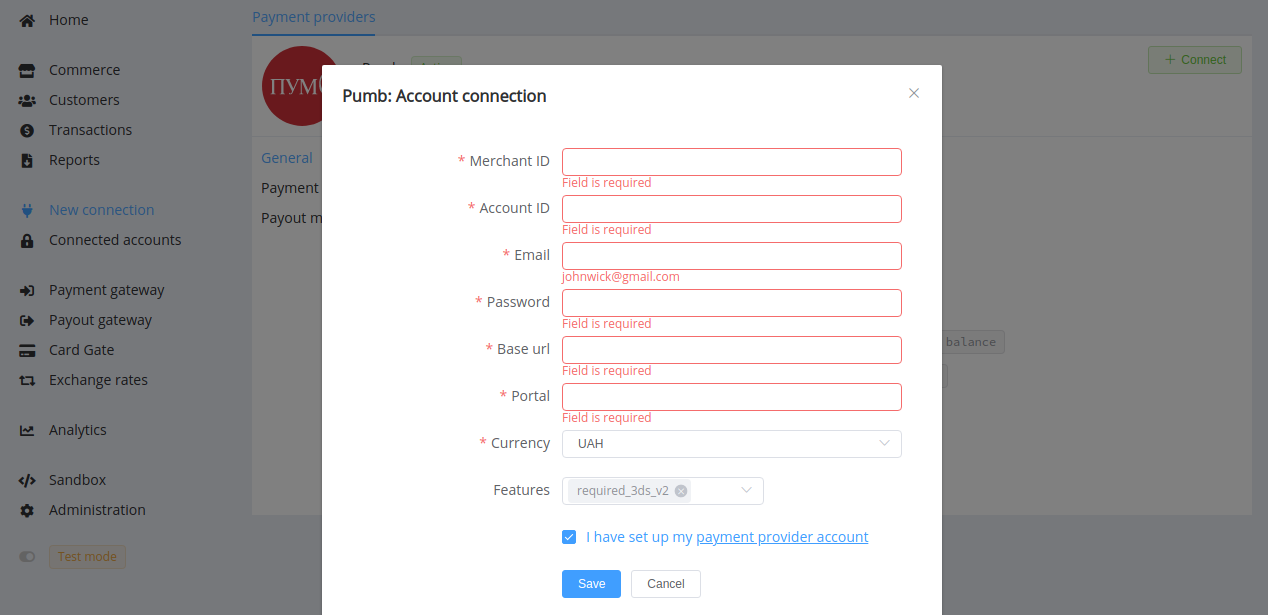
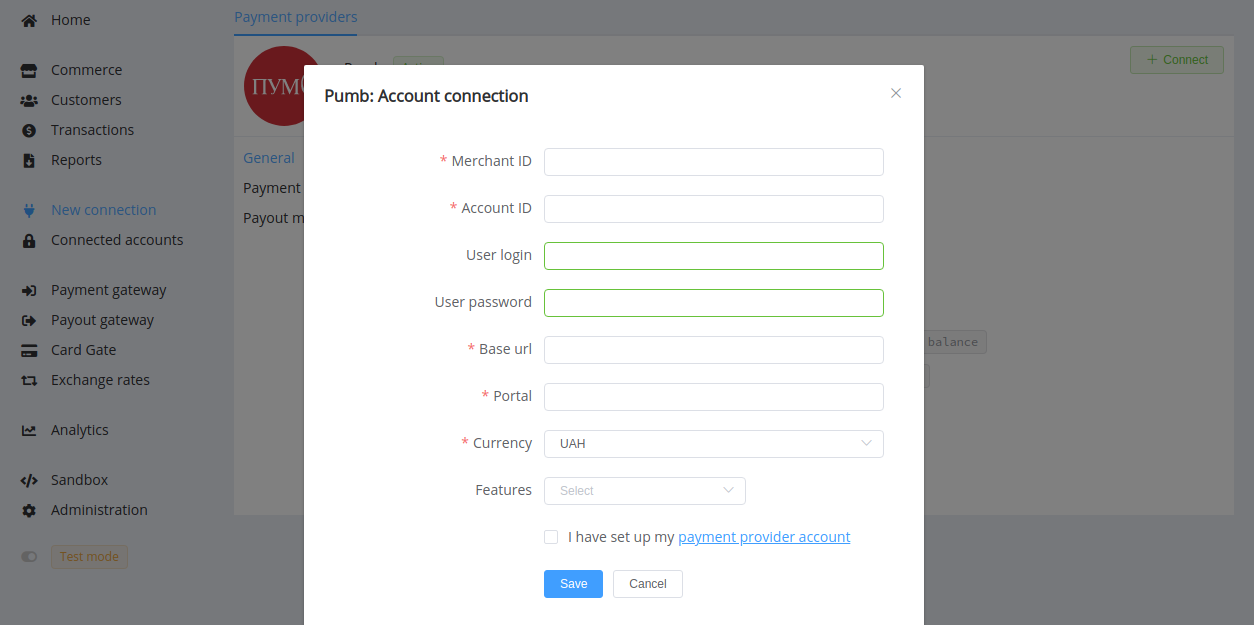
update PUMB, add AliKassa & Square

diff --git a/docs/connectors/index.md b/docs/connectors/index.md
@@ -28,6 +28,7 @@ Click on the name of the desired connector and follow the link to the step-by-st
 | <img src="https://static.openfintech.io/payment_providers/adgroup/logo.svg?w=70" width="70px">  | [ADgroup](adgroup/)  | H2H connection, Payments, Payouts, Account balances   | EUR, RUB, USD |
 | <img src="https://static.openfintech.io/payment_providers/advcash/logo.svg?w=100" width="100px"> | [AdvCash](advcash/) | Payments, Payouts, Account balances | [according to the provider account settings] |
 | <img src="https://static.openfintech.io/payment_providers/alfabank/logo.svg?w=90" width="90px">  | [Alfa Bank](alfabank/) | H2H connection, Payouts, Account balances  | UAH |
+| <img src="https://static.openfintech.io/payment_providers/alikassa/logo.svg?w=70" width="100px"> | [AliKassa](alikassa/) | Payouts, Account balances | [according to the provider account settings] |
 | <img src="https://static.openfintech.io/payment_providers/anycash/logo.svg?w=70" width="100px"> | [any.cash](anycash/) | Payments, Payouts, Account balances | [according to the provider account settings] |
 | <img src="https://static.openfintech.io/payment_providers/anymoney/logo.svg?w=80" width="80px"> | [Any.Money](anymoney/) | Payments, Payouts, Account balances | [according to the provider account settings] |
 | <img src="https://static.openfintech.io/payment_providers/axcessmerchantservices/logo.png?w=60" width="60px"> | [Axcess Merchant Services](axcessmerchantservices/) | H2H connection  | EUR, RUB, UAH, USD |
@@ -101,6 +102,7 @@ Click on the name of the desired connector and follow the link to the step-by-st
 | <img src="https://static.openfintech.io/payment_providers/platio/logo.svg?w=70" width="70px"> | [Platio](platio/) | H2H connection, Payouts, Account balances | RUB |
 | <img src="https://static.openfintech.io/payment_providers/portmone/logo.svg?w=70" width="70px">  | [Portmone.com](portmone/) | H2H connection | UAH |
 | <img src="https://static.openfintech.io/payment_providers/procard/logo.png?w=70" width="70px"> | [Procard](procard/)  | H2H connection | UAH |
+| <img src="https://static.openfintech.io/payment_providers/pumb/logo.svg?w=35" width="35px"> | [PUMB (FUIB)](pumb/)  | H2H connection | UAH |
 | <img src="https://static.openfintech.io/payment_providers/raiffeisenbank/logo.svg?w=100" width="100px"> | [Raiffeisen Bank](raiffeisenbank/) | H2H connection, Account balances | UAH |
 | <img src="https://static.openfintech.io/payment_providers/rapyd/logo.svg?w=70" width="70px"> | [Rapyd.net](rapyd/) | Payouts, Account balances  | [according to the provider account settings] |
 | <img src="https://static.openfintech.io/payment_providers/rbkmoney/logo.png?w=70" width="70px">  | [RBK Money](rbkmoney/) | H2H connection, Payouts, Account balances   | EUR, RUB, USD |
@@ -110,6 +112,7 @@ Click on the name of the desired connector and follow the link to the step-by-st
 | <img src="https://static.openfintech.io/payment_providers/satchelpay/logo.svg?w=90" width="90px"> | [SatchelPay](satchelpay/)  | Payouts, Account balances | [according to the provider account settings] |
 | <img src="https://static.openfintech.io/payment_providers/selcom/logo.png?w=70" width="70px">  | [Selcom](selcom/) | Payments, Payouts, Account balances | [according to the provider account settings] |
 | <img src="https://static.openfintech.io/payment_providers/skrill/logo.svg?w=50" width="50px"> | [Skrill](skrill/) | Payments, Payouts, Account balances | AUD, BGN, CHF, CZK, DKK, EUR, GBP, HRK, HUF, MYR, NOK, PLN, RON, SEK, THB, USD |
+| <img src="https://static.openfintech.io/payment_providers/square/logo.svg?w=70" width="70px">  | [Square](square/) | Payments | [according to the provider account settings] |
 | <img src="https://static.openfintech.io/payment_providers/stripe/logo.svg?w=70" width="70px"> | [Stripe](stripe/)  | H2H connection | AUD, CAD, EUR, GBP, USD |
 | <img src="https://static.openfintech.io/payment_providers/tkbpay/logo.svg?w=70" width="70px"> | [TKB Pay](tkbpay/) | H2H connection, Payouts, Account balances | RUB |
 | <img src="https://static.openfintech.io/payment_providers/tome/logo.svg?w=70" width="70px"> | [tome](tome/) | H2H connection, Payouts, Account balances | BYN, EUR, KZT, RUB, UAH, USD |

diff --git a/mindmap.mm.md b/mindmap.mm.md
@@ -1,0 +1,136 @@
+# Docs.Paycore.io
+
+- Getting Started
+  - ✔ [Introduction](https://docs.paycore.io/)
+  - ✏ [Ecosystem Overview](https://docs.paycore.io/getting-started/platform-overview/)
+  - Onboarding
+  - Use Cases
+  - Go Live Checklist
+  - ⚖ FAQ
+  - Glossary
+
+- Integration
+  - Overview
+    - Versioning
+  - Authentication
+  - Account Data
+    - Exchange Rates
+    - Balances
+  - Accept Payments
+    - Base Integration
+    - Host-to-host payments
+    - Tokenisation
+    - PaymentWidget.js
+  - Make payouts
+    - Base Integration
+    - Using of Tokens
+  - Callbacks
+    - Idempotent responses
+  - Testing
+  - Reconciliations
+  - Handling Errors
+  - Public IPs
+
+- Products
+  - Account & Dashboard settings
+    - User Account
+      - Basic settings
+      - Security & session control
+      - Audit log
+    - Organisation Account
+      - Basic settings
+      - Team work settings
+      - Security
+        - API Keys
+        - Callbacks settings
+    - Sandbox & Test mode
+    - Global Search
+  - Merchant (Cashiers)
+    - Basic Concepts
+    - Merchant Account
+      - Options
+      - Schemes
+    - Provider solutions
+      - Ledger overview
+      - Currency accounts & balances
+      - Deposits, withdrawals, transfers
+      - White-label Merchant Portal
+        - [MP guides & settings]
+    - Customers
+    - Exchange rates
+  - Accept payments
+    - Payment flow
+    - Payment methods & options
+    - Start accept payments
+    - Card vault & tokenisation
+    - Reconciliation
+      - Manual
+        - With dashboard
+        - Pull statement
+        - Bulk callbacks
+      - Automated
+        - API requests
+        - Callbacks
+    - Optimising payments
+      - Routing
+        - Choose routing strategy
+        - P2P routing
+      - Cascading
+      - Auto-retry
+    - Recurring payments
+    - Refunds
+    - Type of integrations
+      - Checkout
+        - Overview
+        - Quickstart
+        - Integration
+        - Customisation
+        - Sandbox
+        - Samples
+      - Build your own payment page
+  - Make payouts
+    - Payout flow
+    - Payout methods & options
+    - Send a single item payout
+    - Reconciliation
+      - Manual
+        - With dashboard
+        - Pull statement
+        - Bulk callbacks
+      - Automated
+        - API requests
+        - Callbacks
+    - Optimising payouts
+      - Routing
+        - Choose routing strategy
+        - P2P routing
+    - Batch payouts
+      - Use Cases
+      - Create batch items
+  - Analytics
+    - Analytic Portal
+      - Overview
+      - Getting Started
+      - Managing Queries
+      - Managing Dashboards
+      - Managing Alerts
+      - Visualizations
+      - FAQ
+    - Reports
+    - Exports
+
+- Connection Hub
+  - Type of Connections
+    - Merchant Account
+    - Provider Account
+    - H2H Merchant Account
+  - List of all available connectors
+    - [Connectors guides]
+
+- Changelog
+  - Release notes 2021
+  - Archive
+    - 2020
+    - 2019
+  - API Changelog
+  - Docs updates

diff --git a/docs/connectors/square/index.md b/docs/connectors/square/index.md
@@ -1,0 +1,64 @@
+<img src="https://static.openfintech.io/payment_providers/square/logo.svg?w=400" width="400px" >
+
+# Square
+
+!!! quote ""
+    The future of business is yours to shape.
+
+**Website**: [Square](https://squareup.com/us/en)
+
+**Login**: [Square](https://squareup.com/login)
+
+Follow the guidance for setting up a connection with Square payment service provider.
+
+## Set up account
+
+### Step 1: Sign up for the Square account
+
+Sign up to the [Square system](https://squareup.com/login) and create an account. Then at your [online Square Dashboard](https://squareup.com/dashboard/), go to the Seller portal and provide details about your store.
+
+Verify your identity to be allowed to accept payments at your Point of Sale. Link your bank accounts for payments.
+
+!!! warning
+    You must activate your Square account for payments by visiting [squareup.com/activate](https://squareup.com/activate) before you can process card payments in production.
+
+Set up your production *Location* in the *Seller Dashboard*: *Account & Settings* --> *Business* --> *Locations*.
+
+![Locations](images/account-n-settings.png)
+
+### Step 2: Get credentials
+
+Note that Square uses different credentials for testing and production. Find them at the *Developer Dashboard*.
+
+* Access Token at *[Application]* --> *Credentials*
+
+    ![Credentials](images/access-token.png)
+
+* Location ID at *[Application]* --> *Locations* (you can also control them in the *Seller Dashboard* settings).
+
+    ![Locations](images/location-id.png)
+
+To receive Callbacks (Webhooks) from Square, enable them at *[Application]* --> *Webhooks* and add `https://psp-ext.paycore.io/square/callback` as Notification URL.
+
+![Notification](images/webhooks.png)
+
+## Connect Account
+
+### Step 1. Connect account at the {{custom.company_name}} Dashboard
+
+Press **Connect** at [*Square Provider Overview*]({{custom.dashboard_base_url}}connect-directory/payment-providers/square/general) page in *'New connection'* and choose **Provider account** option to open Connection form.
+
+![Connect](images/provider-account.png)
+
+Enter credentials:
+
+* Access Token
+* Location
+
+Also, toggle Test Mode for test connection and, in that case, use test credentials.
+
+!!! success
+    You have connected **Square** account.
+
+!!! question "Still looking for help connecting your Square account?"
+    <!--email_off-->[Please contact our support team!](mailto:{{custom.support_email}})<!--/email_off-->

diff --git a/docs/connectors/alikassa/index.md b/docs/connectors/alikassa/index.md
@@ -1,0 +1,66 @@
+<img src="https://static.openfintech.io/payment_providers/alikassa/logo.svg?w=400" width="400px" >
+
+# AliKassa
+
+**Website**: [AliKassa.com](https://alikassa.com/)
+
+Follow the guidance for setting up a connection with the AliKassa payment service provider.
+
+## Set up account
+
+### Step 1: Sign up for the AliKassa account
+
+Send a request on the [website](WEBSITE), verify your account and gain access.
+
+### Step 2: Get credentials
+
+In the account settings, find:
+
+* Provider UUID
+* Private Key
+
+### Step 3: Set Callback URL in the account integration settings
+
+Add `https://psp-ext.paycore.io/alikassa/callback` as the notification URL.
+
+!!! important
+    Be sure to check with the manager if you require to provide a white list of IPs, and if so, specify IP addresses from the [{{custom.company_name}} list](/integration/ips/).
+
+## Connect Provider account
+
+### Step 1. Connect account at the {{custom.company_name}} Dashboard
+
+Press **Connect** at [*AliKassa Provider Overview*]({{custom.dashboard_base_url}}connect-directory/payment-providers/alikassa/general) page in *'New connection'* and choose **Provider account** option to open Connection form.
+
+![Connect](images/provider-account.png)
+
+Enter credentials:
+
+* Provider UUID
+* Private Key
+
+!!! success
+    You have connected **AliKassa** account.
+
+<!--
+## Connect H2H Merchant Account
+
+### Step 1. Connect H2H account at the {{custom.company_name}} Dashboard
+
+Press **Connect** at [*AliKassa Provider Overview*]({{custom.dashboard_base_url}}connect-directory/payment-providers/alikassa/general) page in *'New connection'* and choose **H2H Merchant account** option to open Connection form.
+
+![Connect](images/h2h-merchant-account.png)
+
+Enter credentials:
+
+[//]: # (Choose Test Mode for test connection with AliKassa.)
+
+Choose Currencies and Features. You can set these parameters according to available currencies and features for your AliKassa account, but it is necessary to check details of the connection with your {{custom.company_name}} account manager.
+
+!!! success
+    You have connected **AliKassa** H2H merchant account!
+
+-->
+
+!!! question "Still looking for help connecting your AliKassa account?"
+    <!--email_off-->[Please contact our support team!](mailto:{{custom.support_email}})<!--/email_off-->

diff --git a/docs/connectors/pumb/index.md b/docs/connectors/pumb/index.md
@@ -6,7 +6,7 @@
 
 Follow the guidance for setting up a connection with PUMB as a payment service provider.
 
-## Set Up Account
+## Set up account
 
 ### Step 1: Contact PUMB support manager
 
@@ -21,12 +21,12 @@ Credentials that have to be issued:
 * API URL for requests
 * Portal ID corresponding to a web application, a mobile application, or a server outside the bank system
 
-You also provide your email and get a registration in the bank digital system, and then you use this email and password to connect your H2H Merchant Account at the {{custom.company_name}} Dashboard.
+You also provide your email and get a registration in the bank digital system, and then you use this email login and password to connect your H2H Merchant Account at the {{custom.company_name}} Dashboard.
 
 !!! important
     Be sure to check with the bank manager if you require to provide a white list of IPs, and if so, specify IP addresses from the [Corefy list](/integration/ips/).
 
-## Connect H2H Merchant Account
+## Connect H2H Merchant account
 
 ### Step 1. Connect H2H account at the {{custom.company_name}} Dashboard
 
@@ -38,12 +38,15 @@ Enter credentials:
 
 * Merchant ID
 * Account ID
-* Email (to the bank digital system)
-* Password
 * API URL
 * Portal ID
 
-Choose Currencies and Features. You can set these parameters according to available currencies and features for your PUMB account, but it is necessary to check details of the connection with your {{custom.company_name}} account manager.
+Optional fields (to carry the refunds through {{custom.company_name}} system):
+
+* User login to the bank digital system
+* User password
+
+Choose Currencies and Features. You can set these parameters according to available currencies and features for your PUMB account, but it's necessary to check details of the connection with your {{custom.company_name}} account manager.
 
 !!! caution "3DS 2.0 settings"
     The `required_3ds_v2` feature is mandatory if such client authentication protocol is defined by your bank merchant account settings.
